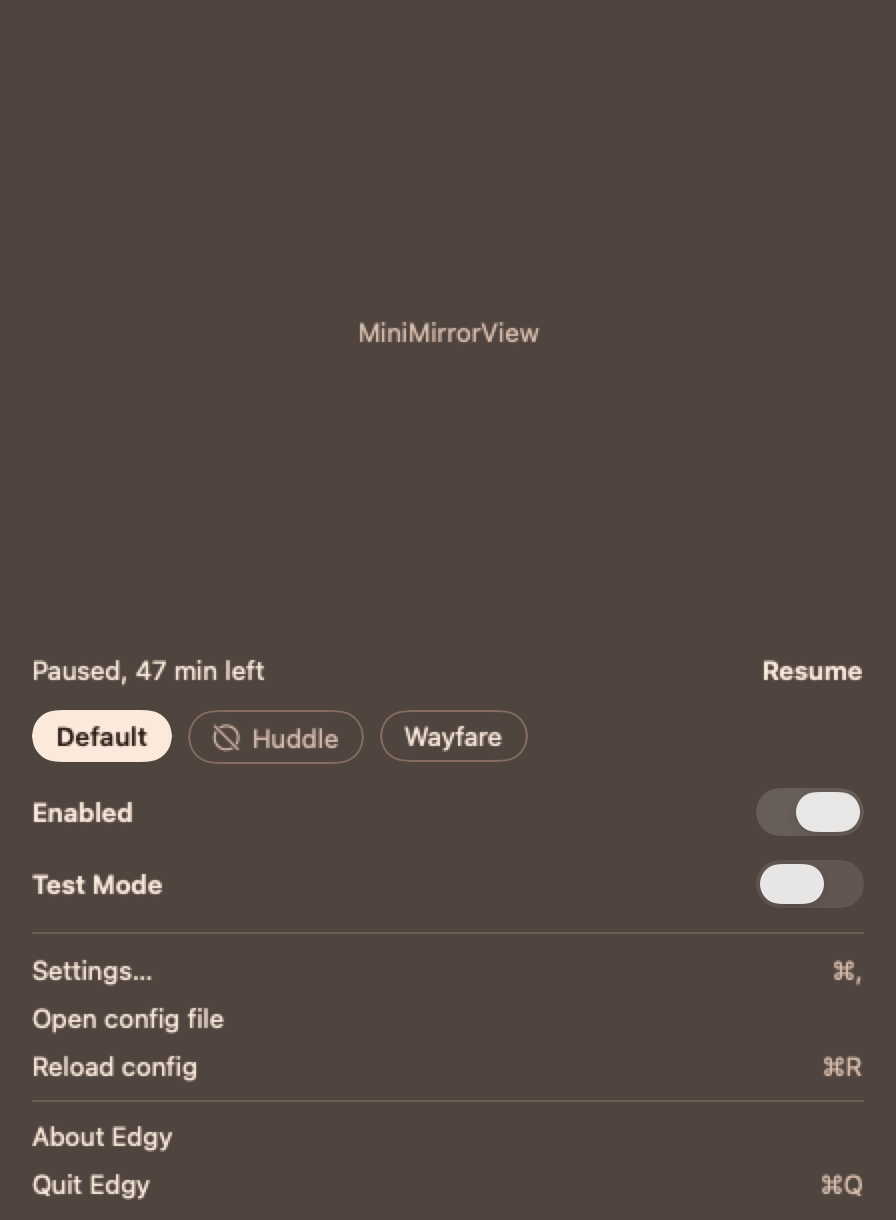
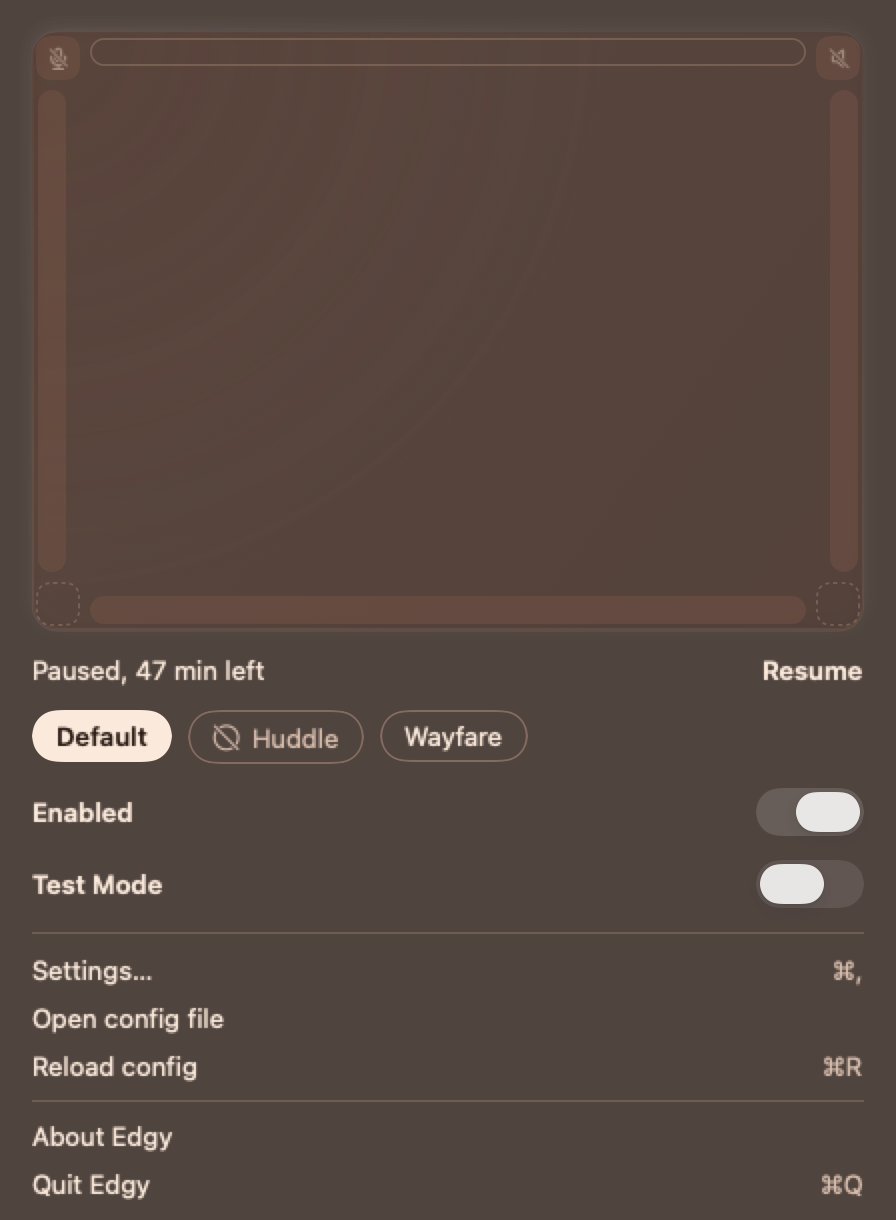
app: designed menu-bar glyph + popover replace the text menu (frontmost app, installed apps, Accessibility, config problem, Test Mode → log until the overlay lands)

Changed region(s): [[0.0312, 0.0311, 0.9688, 0.0623], [0.4062, 0.2492, 0.5938, 0.2803]]

diff --git a/Sources/EdgyApp/AppDelegate.swift b/Sources/EdgyApp/AppDelegate.swift
@@ -24,6 +24,8 @@ final class AppDelegate: NSObject, NSApplicationDelegate {
   private var permissions: PermissionMonitor?
   private var engineStatus = EngineStatus()
   private var statusMenu: StatusMenu?
+  private var menuBar: MenuBarController?
+  private var frontmostObserver: NSObjectProtocol?
   private var pauseTimer: Timer?
   private var activationObserver: NSObjectProtocol?
   private var feedObserver: UUID?
@@ -95,7 +97,31 @@ final class AppDelegate: NSObject, NSApplicationDelegate {
       })
     LaunchAtLogin.sync(wanted: config.app.launchAtLogin, logger: logger)
 
-    statusMenu = StatusMenu(handler: self)
+    // The designed menu-bar glyph + glass popover (EdgyUI). The old text menu (StatusMenu) stays
+    // in the source as a fallback but is no longer installed.
+    let menuBar = MenuBarController(
+      model: settingsModel,
+      actions: MenuBarActions(
+        openSettings: { [weak self] in self?.showSettings() },
+        openConfigFile: { [weak self] in self?.openConfigFile() },
+        reloadConfig: { [weak self] in self?.reloadConfig() },
+        about: { [weak self] in self?.showAbout() },
+        quit: { [weak self] in self?.quit() },
+        openAccessibilitySettings: { [weak self] in self?.grantAccessibility() }))
+    menuBar.onOverlayVisibleChange = { [weak self] visible in self?.overlayVisibilityChanged(visible) }
+    menuBar.state.frontmostBundleID = NSWorkspace.shared.frontmostApplication?.bundleIdentifier
+    menuBar.install()
+    self.menuBar = menuBar
+    frontmostObserver = NSWorkspace.shared.notificationCenter.addObserver(
+      forName: NSWorkspace.didActivateApplicationNotification, object: nil, queue: .main
+    ) { [weak self] note in
+      let app = note.userInfo?[NSWorkspace.applicationUserInfoKey] as? NSRunningApplication
+      let id = app?.bundleIdentifier
+      MainActor.assumeIsolated { self?.menuBar?.state.frontmostBundleID = id }
+    }
+    if let apps = settingsModel.installedApps {
+      Task { @MainActor [weak self] in self?.menuBar?.state.installedApps = await apps.installedApps() }
+    }
     let permissions = PermissionMonitor(checker: AccessibilityPermissionChecker(), scheduler: scheduler) {
       [weak self] state in
       self?.logger.log(.info, "Accessibility permission: \(state.rawValue)")
@@ -143,6 +169,10 @@ final class AppDelegate: NSObject, NSApplicationDelegate {
   }
 
   private func refreshMenu() {
+    menuBar?.state.accessibility = permissions?.accessibility ?? .unknown
+    menuBar?.state.configProblem = editor?.configProblem.map {
+      EdgyUI.ConfigProblem(fileName: store.fileURL.lastPathComponent, line: $0.line, message: $0.message)
+    }
     settingsWindow?.state.conditions.accessibility = permissions?.accessibility ?? .unknown
     settingsWindow?.state.conditions.configProblem = editor?.configProblem.map {
       EdgyUI.ConfigProblem(fileName: store.fileURL.lastPathComponent, line: $0.line, message: $0.message)
@@ -199,6 +229,20 @@ extension AppDelegate: StatusMenuHandler {
     }
     engine.setTestMode(on)
     refreshMenu()
+  }
+
+  /// Test Mode's overlay (batch 18 draws it). Until it lands, decisions go to the log.
+  private func overlayVisibilityChanged(_ visible: Bool) {
+    guard let engine else { return }
+    if visible, feedObserver == nil {
+      let log = SystemLogger(category: "testmode")
+      feedObserver = engine.observeFeed { update in
+        for decision in update.decisions { log.log(.info, "\(decision)") }
+      }
+    } else if !visible, let feedObserver {
+      engine.removeFeedObserver(feedObserver)
+      self.feedObserver = nil
+    }
   }
 
   func pauseForOneHour() {

diff --git a/.parallel-plans/batch-21-window-polish.md b/.parallel-plans/batch-21-window-polish.md
@@ -9,7 +9,8 @@ You own `Sources/EdgyUI/Mirror/**`, `Sources/EdgyUI/Inspector/**`, `Sources/Edgy
 2. **Every should-fix** unless it conflicts with BRIEF (then follow BRIEF and say so): label wraps ("Sensitivity", "Previous Track"), inspector left inset ≈ 22 pt as in A, mini mirror shot at real popover size (~290 pt), Windows preset mirror shot, Tap row present with a blank value while its picker is open, the rest as listed.
 3. **Chief rulings already made:** "Split into" hidden on app tabs; picker height capped at the pad's interior (already merged — keep it); `InspectorDrafts` may stay a side table (document it).
 4. **Labels on the pad** per bone 3 as updated: never "…" on the pad; parameter short value → action short name → clip with a 12 pt fade.
-5. Use the catalog's `displayName` everywhere; never re-spell action names in the UI (batch 20 normalises the catalog spellings).
+5. **From batch 17:** `MiniMirrorView` must not fade for Disabled when the popover already applies 0.4 (one fade only — keep the popover's); unify the two `ConfigProblem` types by making the Window one a thin wrapper or typealias over `EdgyRuntime.ConfigProblem` plus the file name (keep `WindowConditions` source-compatible for EdgyApp).
+6. Use the catalog's `displayName` everywhere; never re-spell action names in the UI (batch 20 normalises the catalog spellings).
 
 ## Acceptance
 - Every must-fix and should-fix in the three critiques ticked in the done report with the snapshot that shows it (or the BRIEF rule that overrides it).
